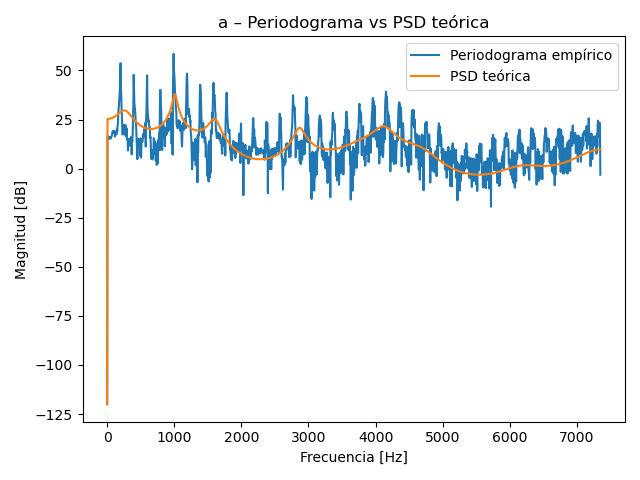
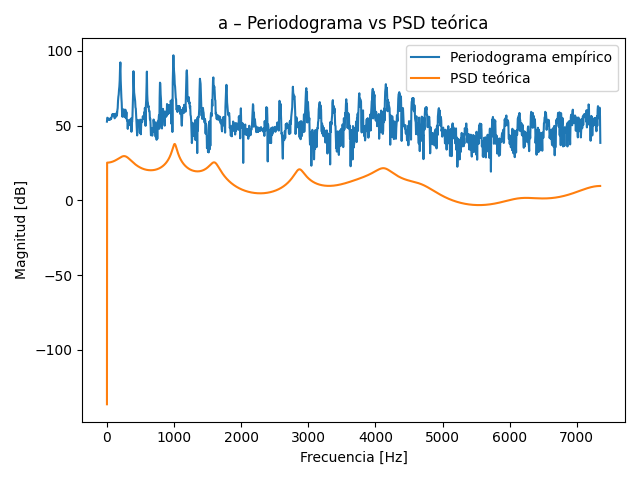
Correcciones Grales.

diff --git a/Ej1.py b/Ej1.py
@@ -2,34 +2,25 @@ import os
 import numpy as np
 import matplotlib.pyplot as plt
 from scipy.io import wavfile
-from scipy.signal import periodogram
-
+from scipy.signal import freqz
 import data
 
+# Parámetros
 fs = 14700
 phonemes = ['a', 'e', 'i', 'o', 'u', 'sh', 'f', 's', 'j']
 output_dir = 'output/ej1'
 os.makedirs(output_dir, exist_ok=True)
 
 for p in phonemes:
-    wav_path = f'{p}.wav'
-    rate, x = wavfile.read(wav_path)
-    assert rate == fs, f"Frecuencia de muestreo inesperada en {wav_path}"
+    # Cargo señal
+    rate, x = wavfile.read(f'{p}.wav')
+    assert rate == fs, f"Frecuencia de muestreo inesperada en {p}.wav"
+
+    # Tomo los primeros 200 ms
     N = int(0.2 * fs)
     seg = x[:N]
-    t = np.arange(N) / fs
 
-    # Señal en tiempo
-    plt.figure()
-    plt.plot(t, seg)
-    plt.title(f'{p} – Señal (200 ms)')
-    plt.xlabel('Tiempo [s]')
-    plt.ylabel('Amplitud')
-    plt.tight_layout()
-    plt.savefig(f'{output_dir}/{p}_time.png')
-    plt.close()
-
-    # Autocorrelación
+    # Autocorrelación normalizada
     ac = np.correlate(seg, seg, mode='full')
     ac_pos = ac[len(ac)//2:]
     lags = np.arange(len(ac_pos)) / fs
@@ -44,38 +35,34 @@ for p in phonemes:
     plt.savefig(f'{output_dir}/{p}_autocorr.png')
     plt.close()
 
-    # Periodograma empírico
-    f, Pxx = periodogram(seg, fs)
+    # Periodograma
+    nfft = N
+    X = np.fft.rfft(seg, n=nfft)
+    Pxx = np.abs(X)**2 / N
+    freqs = np.fft.rfftfreq(nfft, d=1/fs)
     Pxx_db = 10 * np.log10(Pxx + 1e-12)
 
-    # Cálculo de H2 = |H(f)|^2
+    # PSD teórica usando freqz
     a_coeffs = data.coef_a[p]
     b_coeffs = data.coef_b[p]
 
-    den = 1 - sum(
-        a_coeffs[i] * np.exp(-2j * np.pi * f * (i+1) / fs)
-        for i in range(len(a_coeffs))
-    )
-    num = sum(
-        b_coeffs[k] * np.exp(-2j * np.pi * f * k / fs)
-        for k in range(len(b_coeffs))
-    )
-    H2 = np.abs(num)**2 / (np.abs(den)**2)
+    b = b_coeffs
+    a = [1.0] + [-ai for ai in a_coeffs]
+    w, H = freqz(b, a, worN=nfft, fs=fs)
+    H2_db = 20 * np.log10(np.abs(H) + 1e-12)
 
-    # PSD teórica: H2 * S_U(f)
-    if p in ['a', 'e', 'i', 'o', 'u']:
-        # psd_pulsos(f0, N, fs)
-        f_p, Su_p = data.psd_pulsos(200, N, fs)
-        Su = np.interp(f, f_p, Su_p)
+    # PSD de excitación
+    if p in ['sh', 'f', 's', 'j']:
+        Su = np.ones_like(w)
     else:
-        Su = np.ones_like(f)
+        f_p, Su_p = data.psd_pulsos(f0=200, N=N, fs=fs)
+        Su = np.interp(w, f_p, Su_p)
+    Su_db = 10 * np.log10(Su + 1e-12)
 
-    SX_db = 10 * np.log10(H2 * Su + 1e-12)
-
-    # Graficar periodograma vs PSD teórica
+    # Graficar periodograma y PSD teórica
     plt.figure()
-    plt.plot(f, Pxx_db, label='Periodograma empírico')
-    plt.plot(f, SX_db, label='PSD teórica')
+    plt.plot(freqs, Pxx_db, label='Periodograma empírico')
+    plt.plot(w, H2_db + Su_db, label='PSD teórica')
     plt.title(f'{p} – Periodograma vs PSD teórica')
     plt.xlabel('Frecuencia [Hz]')
     plt.ylabel('Magnitud [dB]')
@@ -84,4 +71,4 @@ for p in phonemes:
     plt.savefig(f'{output_dir}/{p}_psd.png')
     plt.close()
 
-print("Gráficos generados en 'output/ej1/'")
+print("¡Listo! Gráficos en 'output/ej1/'")

diff --git a/Ej2.py b/Ej2.py
@@ -1,57 +1,62 @@
+import os
 import numpy as np
 import matplotlib.pyplot as plt
+from scipy.signal import lfilter
 import sounddevice as sd
-from data import coef_a, coef_b, gen_pulsos, suavizar_bordes
+import data
 
+# Parámetros
 fs = 14700
 dur_ms = 500
 dur_samples = int(fs * dur_ms / 1000)
 transicion = 0.2
-fonemas_vocales = ['a', 'e', 'i', 'o', 'u']
-fonemas_consonantes = ['sh', 'f', 's', 'j']
+vowels = ['a', 'e', 'i', 'o', 'u']
+consonants = ['sh', 'f', 's', 'j']
 
-def sintetizar_fonema(fonema, pitch=None):
-    a = coef_a[fonema]
-    b = coef_b[fonema][0]
-    orden = len(a)
-    
-    if fonema in fonemas_vocales:
-        f0 = pitch if pitch else 200
-        U = gen_pulsos(f0, dur_samples, fs)
+# Construir vectores b y a
+b_dict = {p: data.coef_b[p] for p in vowels + consonants}
+a_dict = {p: [1.0] + [-ai for ai in data.coef_a[p]] for p in vowels + consonants}
+
+# Síntesis de un fonema con filter(b,a,u)
+def sintetizar_fonema(p, pitch=200):
+    # Fuente de excitación
+    if p in vowels:
+        u = data.gen_pulsos(pitch, dur_samples, fs)
     else:
-        U = np.random.normal(0, 1, dur_samples)
-    
-    X = np.zeros(dur_samples)
-    for n in range(orden, dur_samples):
-        X[n] = np.dot(a, X[n-orden:n][::-1]) + b * U[n]
-    
-    X = suavizar_bordes(X, transicion)
-    return X
+        rng = np.random.default_rng(0)
+        u = rng.standard_normal(dur_samples)
+    # Filtrado ARMA (solo AR)
+    b = b_dict[p]
+    a = a_dict[p]
+    x = lfilter(b, a, u)
+    # Suavizar bordes
+    x = data.suavizar_bordes(x, transicion)
+    return x
 
-#a
+# Graficar primeros 200 ms
+os.makedirs('output/ej2', exist_ok=True)
 plt.figure(figsize=(12, 8))
-for i, fonema in enumerate(fonemas_vocales + fonemas_consonantes):
-    X = sintetizar_fonema(fonema)
+for i, p in enumerate(vowels + consonants):
+    x = sintetizar_fonema(p)
+    t = np.arange(int(0.2 * fs)) / fs
     plt.subplot(3, 3, i+1)
-    plt.plot(np.arange(0, int(0.2*fs)) / fs, X[:int(0.2*fs)])
-    plt.title(f"Fonema {fonema}")
-    plt.xlabel("Tiempo [s]")
+    plt.plot(t, x[:len(t)])
+    plt.title(f'Fonema {p}')
+    plt.xlabel('Tiempo [s]')
 plt.tight_layout()
-plt.savefig("output/ej2/fonemas.png")
-plt.show()
+plt.savefig('output/ej2/fonemas.png')
+plt.close()
 
-#b
-secuencia_1 = np.concatenate([sintetizar_fonema(f) for f in fonemas_vocales + fonemas_consonantes])
-sd.play(secuencia_1, samplerate=fs)
+# Concatenar y reproducir pitch fijo
+seq1 = np.concatenate([sintetizar_fonema(p) for p in vowels + consonants])
+sd.play(seq1, fs)
 sd.wait()
 
-#c
-pitch_por_fonema = {'a': 100, 'e': 125, 'i': 150, 'o': 125, 'u': 100}
-secuencia_2 = []
-for f in fonemas_vocales:
-    secuencia_2.append(sintetizar_fonema(f, pitch=pitch_por_fonema[f]))
-for f in fonemas_consonantes:
-    secuencia_2.append(sintetizar_fonema(f))
-secuencia_2 = np.concatenate(secuencia_2)
-sd.play(secuencia_2, samplerate=fs)
+# Concatenar con pitches variables
+pitch_map = {'a':100,'e':125,'i':150,'o':125,'u':100}
+seq2 = np.concatenate(
+    [sintetizar_fonema(p, pitch_map[p]) if p in vowels else sintetizar_fonema(p)
+     for p in vowels + consonants]
+)
+sd.play(seq2, fs)
 sd.wait()
